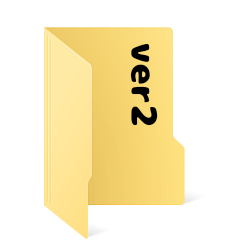
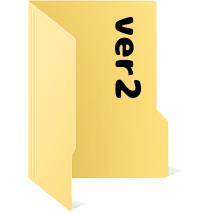
thigh, ver2, and ver3 hit the store shelves!

Changed region(s): [[0.1127, 0.0, 0.8169, 1.0]]

diff --git a/GraphicsRush/src/TrainView.cpp b/GraphicsRush/src/TrainView.cpp
@@ -963,6 +963,15 @@ choose(int x, int y)
 	case CSHOP:
 
 		break;
+	case CFREE:
+
+		break;
+	case CVER2:
+
+		break;
+	case CVER3:
+
+		break;
 	default:
 		game_state = CGAME;
 		break;
@@ -1030,7 +1039,7 @@ renderEnvironment()
 void TrainView::
 drawShop(bool buttom)
 {
-	if (game_state != CLOBBY) return; // don't draw the shop if not in lobby
+	if (game_state != CLOBBY || chapter != 0) return; // don't draw the shop if not in lobby
 
 	if (buttom)
 		this->choose_shader->Use();
@@ -1070,6 +1079,10 @@ void TrainView::
 drawChooser()
 {
 	drawShop(true);
+
+	drawFree(true);
+	drawVer2(true);
+	drawVer3(true);
 }
 
 void TrainView::
@@ -1128,7 +1141,13 @@ drawWorld()
 	glEnable(GL_DEPTH_TEST);
 	glEnable(GL_BLEND);
 	glBlendFunc(GL_SRC_ALPHA, GL_ONE_MINUS_SRC_ALPHA);
+
 	if (m_pTrack->miniBoss) drawMiniBoss();
+
+	drawFree();
+	drawVer2();
+	drawVer3();
+
 	glDisable(GL_BLEND);
 }
 
@@ -1562,6 +1581,117 @@ drawSun()
 }
 
 void TrainView::
+drawFree(bool buttom)
+{
+	if (game_state != CDEAD && game_state != CSHOP) return;
+
+	if (buttom)
+		this->choose_flat_shader->Use();
+	else
+		this->blending_flat_shader->Use();
+
+	if (game_state == CSHOP)
+		this->shop->items_pos[THIGH] = vec3(-0.65f, 0.7f, 0.0f);
+	else if (game_state == CDEAD)
+		this->shop->items_pos[THIGH] = vec3(-0.65f, 0.0f, 0.0f);
+
+	mat4 model_matrix = mat4(); // the player is in a 5.0f height position
+	model_matrix = translate(model_matrix, this->shop->items_pos[THIGH]);
+	model_matrix = rotate(model_matrix, shop_rotate, vec3(0, 1, 0));
+	model_matrix = scale(model_matrix, vec3(0.25f, 0.25f, 0.25f)); // the player is in a 5.0f height position
+	if (buttom)
+	{
+		glUniformMatrix4fv(glGetUniformLocation(this->choose_flat_shader->Program, "u_model"), 1, GL_FALSE, &model_matrix[0][0]);
+		glUniform1i(glGetUniformLocation(this->choose_flat_shader->Program, "chooser"), CFREE);
+	}
+	else
+	{
+		glUniformMatrix4fv(glGetUniformLocation(this->blending_flat_shader->Program, "u_model"), 1, GL_FALSE, &model_matrix[0][0]);
+		this->shop->items_texture[THIGH].bind(0);
+		glUniform1i(glGetUniformLocation(this->blending_flat_shader->Program, "u_texture"), 0);
+	}
+
+	this->shop->items_obj[THIGH]->draw();
+
+	//unbind shader(switch to fixed pipeline)
+	glUseProgram(0);
+}
+
+void TrainView::
+drawVer2(bool buttom)
+{
+	if (game_state != CDEAD && game_state != CSHOP) return;
+
+	if (buttom)
+		this->choose_flat_shader->Use();
+	else
+		this->blending_flat_shader->Use();
+
+	if (game_state == CSHOP)
+		this->shop->items_pos[VER2] = vec3(0.0f, 0.7f, 0.0f);
+	else if (game_state == CDEAD)
+		this->shop->items_pos[VER2] = vec3(0.0f, 0.0f, 0.0f);
+
+	mat4 model_matrix = mat4(); // the player is in a 5.0f height position
+	model_matrix = translate(model_matrix, this->shop->items_pos[VER2]);
+	model_matrix = rotate(model_matrix, shop_rotate, vec3(0, 1, 0));
+	model_matrix = scale(model_matrix, vec3(0.25f, 0.25f, 0.25f)); // the player is in a 5.0f height position
+	if (buttom)
+	{
+		glUniformMatrix4fv(glGetUniformLocation(this->choose_flat_shader->Program, "u_model"), 1, GL_FALSE, &model_matrix[0][0]);
+		glUniform1i(glGetUniformLocation(this->choose_flat_shader->Program, "chooser"), CVER2);
+	}
+	else
+	{
+		glUniformMatrix4fv(glGetUniformLocation(this->blending_flat_shader->Program, "u_model"), 1, GL_FALSE, &model_matrix[0][0]);
+		this->shop->items_texture[VER2].bind(0);
+		glUniform1i(glGetUniformLocation(this->blending_flat_shader->Program, "u_texture"), 0);
+	}
+
+	this->shop->items_obj[VER2]->draw();
+
+	//unbind shader(switch to fixed pipeline)
+	glUseProgram(0);
+}
+
+void TrainView::
+drawVer3(bool buttom)
+{
+	if (game_state != CDEAD && game_state != CSHOP) return;
+
+	if (buttom)
+		this->choose_flat_shader->Use();
+	else
+		this->blending_flat_shader->Use();
+
+	if (game_state == CSHOP)
+		this->shop->items_pos[VER3] = vec3(0.65f, 0.7f, 0.0f);
+	else if (game_state == CDEAD)
+		this->shop->items_pos[VER3] = vec3(0.65f, 0.0f, 0.0f);
+
+	mat4 model_matrix = mat4(); // the player is in a 5.0f height position
+	model_matrix = translate(model_matrix, this->shop->items_pos[VER3]);
+	model_matrix = rotate(model_matrix, shop_rotate, vec3(0, 1, 0));
+	model_matrix = scale(model_matrix, vec3(0.25f, 0.25f, 0.25f)); // the player is in a 5.0f height position
+	if (buttom)
+	{
+		glUniformMatrix4fv(glGetUniformLocation(this->choose_flat_shader->Program, "u_model"), 1, GL_FALSE, &model_matrix[0][0]);
+		glUniform1i(glGetUniformLocation(this->choose_flat_shader->Program, "chooser"), CVER3);
+	}
+	else
+	{
+		glUniformMatrix4fv(glGetUniformLocation(this->blending_flat_shader->Program, "u_model"), 1, GL_FALSE, &model_matrix[0][0]);
+		this->shop->items_texture[VER3].bind(0);
+		glUniform1i(glGetUniformLocation(this->blending_flat_shader->Program, "u_texture"), 0);
+	}
+
+	this->shop->items_obj[VER3]->draw();
+
+	//unbind shader(switch to fixed pipeline)
+	glUseProgram(0);
+}
+
+void TrainView::
 drawScreenQuad()
 {
 	this->screen_shader->Use();
@@ -1586,6 +1716,23 @@ printText()
 		char shop_info[20];
 		sprintf(shop_info, "140.118.127.125");
 		RenderText(shop_info, 50.0f, 100.0f, 0.6f, vec3(0.0f, 0.9f, 0.0f));
+	}
+	else if (game_state == CSHOP)
+	{
+		char free_info[10];
+		sprintf(free_info, "thigh");
+		vec2 free_pos = ndcToViewport(this->shop->items_pos[THIGH] + vec3(-0.1f, -0.3f, 0.0f));
+		RenderText(free_info, free_pos.x, free_pos.y, 0.6f, vec3(1.0f, 1.0f, 0.0f));
+
+		char ver2_info[10];
+		sprintf(ver2_info, "ver2");
+		vec2 ver2_pos = ndcToViewport(this->shop->items_pos[VER2] + vec3(0.0f, -0.3f, 0.0f));
+		RenderText(ver2_info, ver2_pos.x, ver2_pos.y, 0.6f, vec3(1.0f, 1.0f, 0.0f));
+
+		char ver3_info[10];
+		sprintf(ver3_info, "ver3");
+		vec2 ver3_pos = ndcToViewport(this->shop->items_pos[VER3] + vec3(-0.1f, -0.3f, 0.0f));
+		RenderText(ver3_info, ver3_pos.x, ver3_pos.y, 0.6f, vec3(1.0f, 1.0f, 0.0f));
 	}
 	else if (game_state == CGAME)
 	{
@@ -1614,6 +1761,12 @@ printText()
 			RenderText(ver3_info, 455.0f, h() - 80.0f, 0.6f, vec3(0.9f, 0.9f, 0.9f));
 		}
 	}
+}
+
+vec2 TrainView::
+ndcToViewport(const vec3& ndc)
+{
+	return vec2(w() * (ndc.x / 2.0f + 0.5f), h() * (ndc.y / 2.0f + 0.5f));
 }
 
 //************************************************************************
@@ -1691,6 +1844,13 @@ draw()
 				nullptr, nullptr, nullptr,
 				"../GraphicsRush/src/shaders/choose.frag");
 
+		if (!this->choose_flat_shader)
+			this->choose_flat_shader = new
+			Shader(
+				"../GraphicsRush/src/shaders/choose_flat.vert",
+				nullptr, nullptr, nullptr,
+				"../GraphicsRush/src/shaders/choose_flat.frag");
+
 		if (!this->environment_shader)
 			this->environment_shader = new
 			Shader(
@@ -1704,6 +1864,13 @@ draw()
 				"../GraphicsRush/src/shaders/blending.vert",
 				nullptr, nullptr, nullptr,
 				"../GraphicsRush/src/shaders/blending.frag");
+
+		if (!this->blending_flat_shader)
+			this->blending_flat_shader = new
+			Shader(
+				"../GraphicsRush/src/shaders/blending_flat.vert",
+				nullptr, nullptr, nullptr,
+				"../GraphicsRush/src/shaders/blending_flat.frag");
 
 		if (!this->commom_matrices)
 		{

diff --git a/GraphicsRush/src/CallBacks.cpp b/GraphicsRush/src/CallBacks.cpp
@@ -366,6 +366,7 @@ void endReset(TrainWindow* tw) {
 	if (tw->m_Track.player.invincible) return;
 	//let player see how they died
 	Sleep(1000);
+	tw->trainView->game_state = CDEAD; //***need to design***
 
 	//save score
 	if (tw->m_Track.score > tw->m_Track.player.highscore) tw->m_Track.player.highscore = tw->m_Track.score;
@@ -389,16 +390,21 @@ void endReset(TrainWindow* tw) {
 	tw->trainView->camera_movement_index = 0;
 	tw->trainView->door_offset = 0.0f;
 
-	if (tw->debug_mode->value()) { tw->runButton->value(0); }
+	if (tw->debug_mode->value()) {
+		tw->runButton->value(0);
+		tw->trainView->game_state = CGAME;
+	}
 	else if (verState == 1 && tw->ver2Button->value() && tw->m_Track.player.items[VER2] > 0) { 
 		tw->m_Track.player.items[VER2]--;
 		tw->ver2Button->value(0);
 		verState = 2;
+		tw->trainView->game_state = CGAME;
 	}
 	else if (verState == 2 && tw->ver3Button->value() && tw->m_Track.player.items[VER3] > 0) { 
 		tw->m_Track.player.items[VER3]--; 
 		tw->ver3Button->value(0);
 		verState = 3;
+		tw->trainView->game_state = CGAME;
 	}
 	else
 	{
@@ -413,6 +419,7 @@ void endReset(TrainWindow* tw) {
 		tw->runButton->value(0);
 		tw->speed->value(1);
 		tw->trainView->switchChapter(0);
+		tw->trainView->game_state = CLOBBY;
 	}
 	tw->m_Track.obstacles = {};
 	tw->m_Track.money = {};

diff --git a/GraphicsRush/src/TrainView.H b/GraphicsRush/src/TrainView.H
@@ -82,7 +82,11 @@ enum Chooser
 {
 	CLOBBY, // 0 is back ground in chooser
 	CSHOP,
-	CGAME
+	CGAME,
+	CDEAD,
+	CFREE,
+	CVER2,
+	CVER3
 };
 
 enum Lighting
@@ -156,8 +160,10 @@ class TrainView : public Fl_Gl_Window
 		Shader* water_surface_shader = nullptr;
 		Shader* shadow_shader = nullptr;
 		Shader* choose_shader = nullptr;
+		Shader* choose_flat_shader = nullptr;
 		Shader* environment_shader = nullptr;
 		Shader* blending_shader = nullptr;
+		Shader* blending_flat_shader = nullptr;
 		void loadObjects();
 		void loadMiniBoss();
 		void loadMainBoss();
@@ -201,8 +207,12 @@ class TrainView : public Fl_Gl_Window
 		void drawDoor();
 		void drawEarth();
 		void drawSun();
+		void drawFree(bool buttom = false);
+		void drawVer2(bool buttom = false);
+		void drawVer3(bool buttom = false);
 		void drawScreenQuad();
 		void printText();
+		vec2 ndcToViewport(const vec3& ndc);
 		GLuint loadCubemap(std::vector<std::string> chapters_skybox_textures_faces);
 		const int PATH_DIVIDE = 50;
 		GMTPipeline gmt;

diff --git a/GraphicsRush/src/Shop.H b/GraphicsRush/src/Shop.H
@@ -7,8 +7,14 @@
 #include "TrainWindow.H"
 #include "Player.H"
 using namespace glm;
-const static std::vector<std::string> shop_items_models = { };
-const static std::vector<std::string> shop_items_textures = { };
+const static std::vector<std::string> shop_items_models = {
+			"QUAD",
+			"QUAD",
+			"QUAD" };
+const static std::vector<std::string> shop_items_textures = {
+			"../GraphicsRush/Images/shop/ver2.png",
+			"../GraphicsRush/Images/shop/ver3.png",
+			"../GraphicsRush/Images/shop/chicken_leg.png" };
 static enum { VER2, VER3, THIGH, SHADER, CUDA, REVERSI } item_name;
 
 class Shop {
@@ -19,6 +25,7 @@ class Shop {
 		Texture2D* shop_buttom_texture = nullptr;
 		std::vector<Model*> items_obj;
 		std::vector<Texture2D> items_texture;
+		std::vector<glm::vec3> items_pos;
 
 		std::vector<int> item_price = { 100, 100, 100, 100, 100, 100 };
 		void buy(TrainWindow* tw, int item_id);

diff --git a/GraphicsRush/src/Shop.cpp b/GraphicsRush/src/Shop.cpp
@@ -16,6 +16,7 @@ loadItemsModel()
 	{
 		items_obj.push_back(new Model(shop_items_models[i]));
 		items_texture.push_back(Texture2D(shop_items_textures[i].c_str()));
+		items_pos.push_back(glm::vec3());
 	}
 }
 
